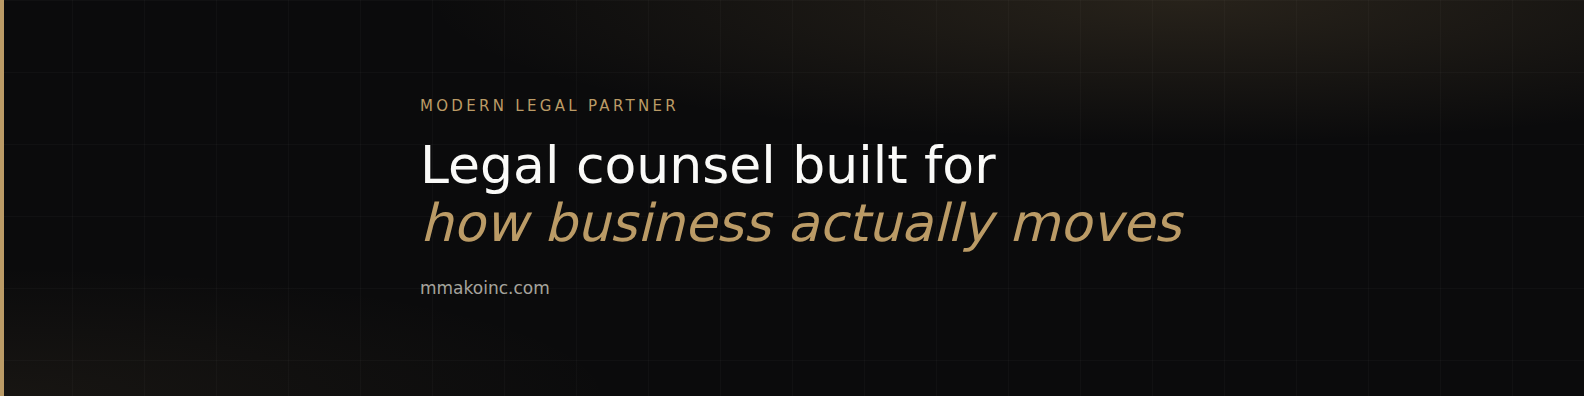
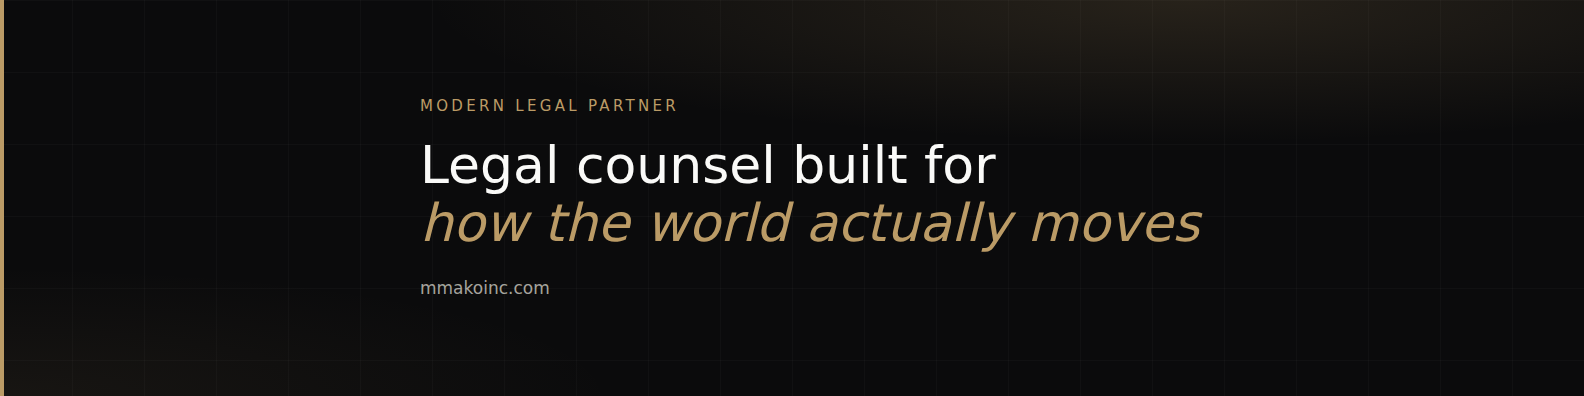
Apply the client's copy revisions
Four changes they supplied:

  Hero      "how business actually moves" becomes "how the world actually
            moves", and the standfirst is replaced with their sentence about
            sound legal principles and understanding clients' needs.
  Services  Service 01 is retitled Legal and Corporate Advisory, and its
            four items become three: company incorporation, corporate
            restructuring, corporate governance. Shareholder agreements and
            company formation are gone; incorporation covers the latter.
  Home CTA  "Let's talk about what you're dealing with" becomes "Let's talk
            about your legal needs", with their matching invitation beneath.
  About     The hero body is replaced wholesale. The title, "A modern
            approach to legal practice", is kept, as they asked.

Two follow-ons they did not list but that carry the same sentence. The
footer strapline appears on every page, and the LinkedIn banner and
presentation folder in the brand kit both set the old line in display type.
Leaving those would have contradicted the new hero, so they now read "how
the world actually moves" too, and the kit assets are regenerated. The
home page's Open Graph description, which is the hero line again for social
previews, is updated to match. Files that re-rendered without changing were
left at their previous bytes.

The client wrote "legal counsel build for"; set as "built", matching the
existing line and the grammar.
[…]

Changed region(s): [[0.3403, 0.5152, 0.7734, 0.6364]]

diff --git a/app/page.tsx b/app/page.tsx
@@ -14,7 +14,7 @@ export const metadata: Metadata = {
   openGraph: {
     title: "Mmako Inc. — Modern Legal Partner",
     description:
-      "Legal counsel built for how business actually moves. Clear, fast, outcome-focused legal support.",
+      "Legal counsel built for how the world actually moves. Modern, practical legal counsel grounded in sound legal principles.",
     url: "/",
   },
 };
@@ -89,11 +89,11 @@ export default function HomePage() {
         <div className="flex flex-col items-start gap-8 lg:flex-row lg:items-center lg:justify-between">
           <div className="max-w-xl">
             <h2 className="text-3xl leading-[1.15] text-bone sm:text-4xl">
-              Let&apos;s talk about what you&apos;re dealing with
+              Let&apos;s talk about your legal needs
             </h2>
             <p className="mt-4 text-base leading-relaxed text-bone-300/70">
-              Tell us the situation and we&apos;ll tell you, plainly, where you
-              stand.
+              Tell us a little about your matter, and let&apos;s discuss how we
+              can assist.
             </p>
           </div>
           <Button href="/contact" size="lg" className="shrink-0">

diff --git a/components/Hero.tsx b/components/Hero.tsx
@@ -43,13 +43,13 @@ export function Hero() {
 
           <h1 className="text-[2.375rem] leading-[1.12] text-bone sm:text-[3.25rem] lg:text-[4rem]">
             Legal counsel built for{" "}
-            <span className="italic text-gold">how business actually moves</span>
+            <span className="italic text-gold">how the world actually moves</span>
           </h1>
 
           <p className="mt-7 max-w-2xl text-base leading-relaxed text-bone-300/75 sm:text-lg">
-            From first contract to first dispute, Mmako Inc. gives founders,
-            growing companies, and individuals legal support that&apos;s clear,
-            fast, and focused on outcomes.
+            Mmako Inc. offers modern, practical legal counsel grounded in sound
+            legal principles and a clear understanding of our clients&rsquo;
+            needs.
           </p>
 
           <div className="mt-10 flex flex-col gap-3 sm:flex-row sm:items-center sm:gap-4">

diff --git a/app/about/page.tsx b/app/about/page.tsx
@@ -25,7 +25,7 @@ export default function AboutPage() {
         eyebrow="About"
         title="A modern approach to legal practice"
         subtitle="Built for the pace of modern business."
-        body="Mmako Inc. was founded to give everyday businesses and individuals legal support that's clear, practical, and genuinely useful — not buried in jargon or billed by the hour."
+        body="Mmako Inc. is a modern law firm with a straightforward approach to the law. We believe in clear advice, thoughtful legal thinking and practical solutions, delivered with the care and professionalism that every matter deserves."
       />
 
       {/* Not the traditional firm ------------------------------------------ */}

diff --git a/components/Footer.tsx b/components/Footer.tsx
@@ -13,8 +13,8 @@ export function Footer() {
           <div className="md:col-span-5">
             <Logo variant="lockup" height={84} />
             <p className="mt-5 max-w-sm text-sm leading-relaxed text-bone-300/70">
-              Legal counsel built for how business actually moves — clear, fast,
-              and focused on outcomes.
+              Legal counsel built for how the world actually moves — modern,
+              practical, and grounded in sound legal principles.
             </p>
             <a
               href={`mailto:${site.email}`}

diff --git a/lib/content.ts b/lib/content.ts
@@ -1,12 +1,11 @@
 export const services = [
   {
     number: "01",
-    title: "Business & Corporate Advisory",
+    title: "Legal and Corporate Advisory",
     description: "Solid foundations for modern enterprises — structured to scale.",
     items: [
-      "Company formation",
-      "Structuring & restructuring",
-      "Shareholder agreements",
+      "Company incorporation",
+      "Corporate restructuring",
       "Corporate governance",
     ],
   },
